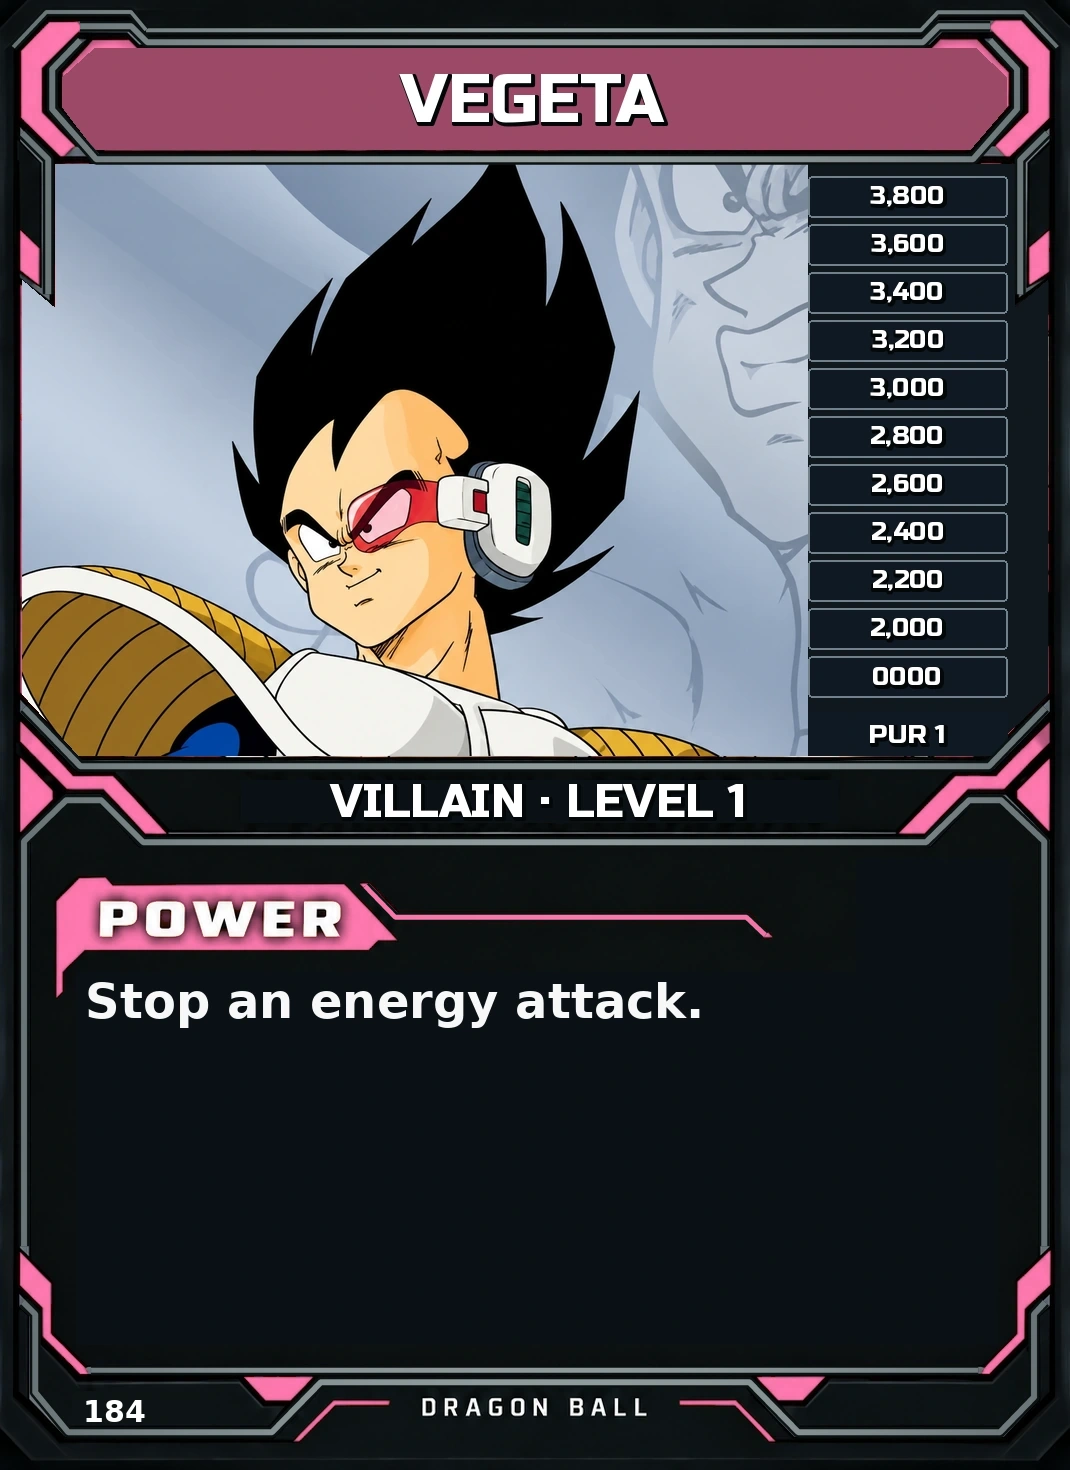
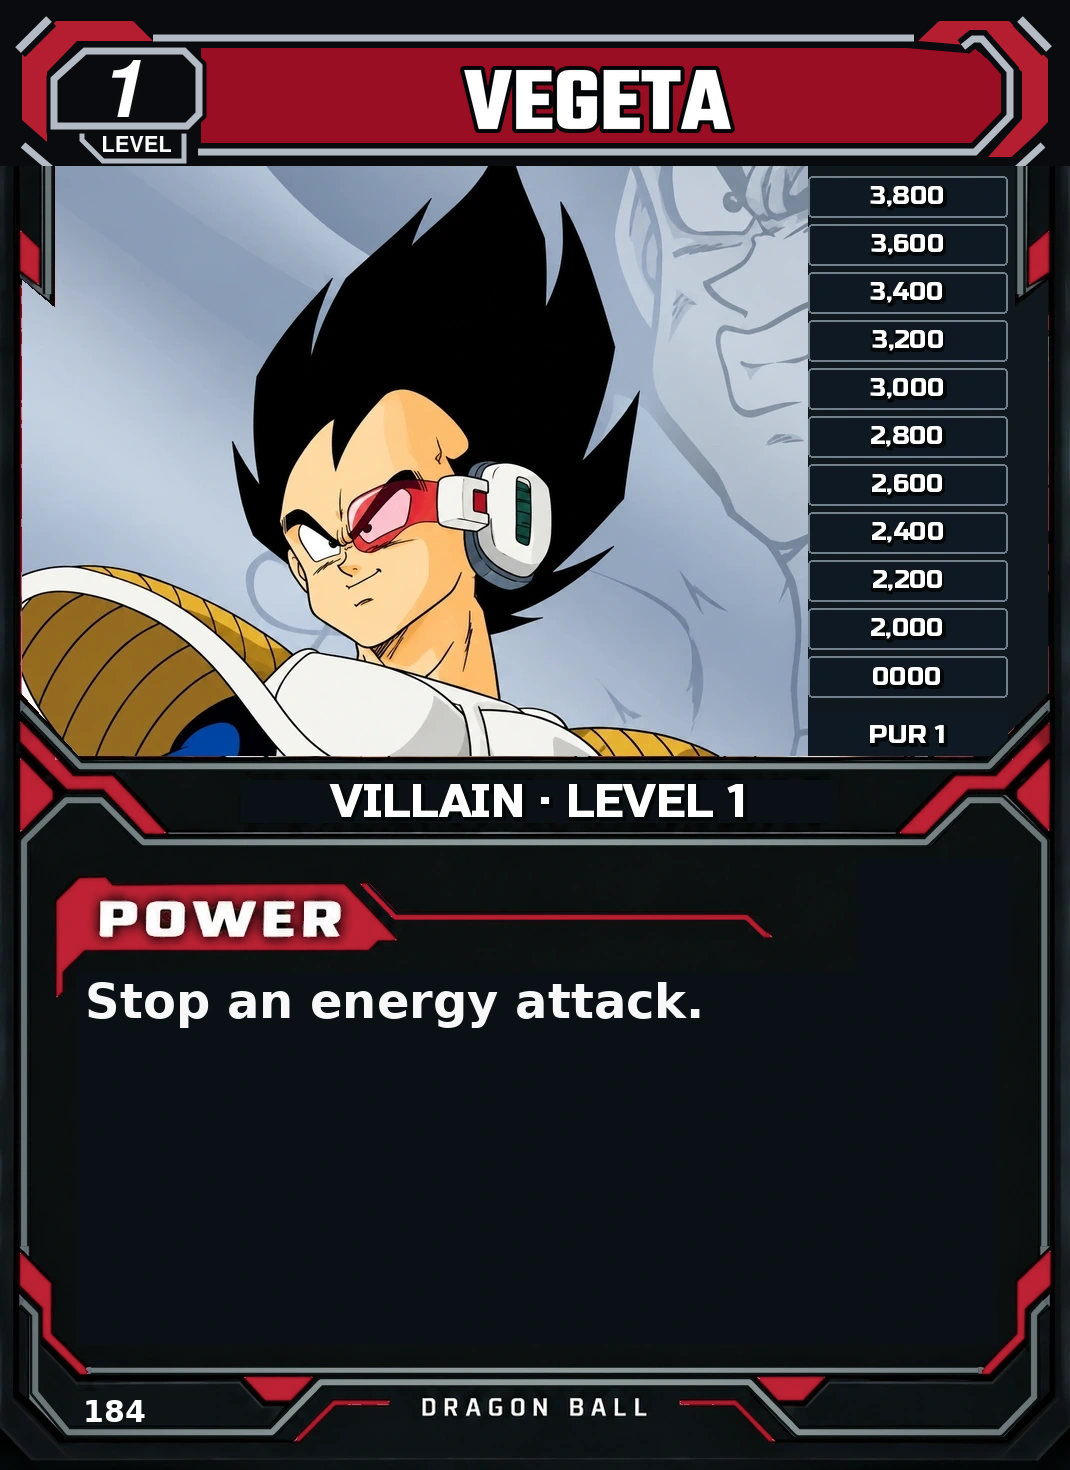
Apply approved angular LEVEL badges to personalities 31–40 of 49

diff --git a/public/cards/catalog.js b/public/cards/catalog.js
@@ -2304,8 +2304,10 @@ export const catalog = [
     "style": "Freestyle",
     "set": "Saiyan Saga",
     "status": "Ready",
-    "image": "/assets/cards/saiyan-178-nappa.webp?v=f2fd3159fd",
-    "source": "https://retrodbzccg.com/card-images/saiyan-saga-starter/"
+    "image": "/assets/cards/saiyan-178-nappa.webp?v=748bdd0847",
+    "source": "https://retrodbzccg.com/card-images/saiyan-saga-starter/",
+    "width": 1070,
+    "height": 1470
   },
   {
     "id": "saiyan-179-goku-lvl-1-ht",
@@ -2315,8 +2317,10 @@ export const catalog = [
     "style": "Freestyle",
     "set": "Saiyan Saga",
     "status": "Ready",
-    "image": "/assets/cards/saiyan-179-goku-lvl-1-ht.webp?v=119d3c6f66",
-    "source": "https://retrodbzccg.com/card-images/saiyan-saga-starter/"
+    "image": "/assets/cards/saiyan-179-goku-lvl-1-ht.webp?v=1230ca9358",
+    "source": "https://retrodbzccg.com/card-images/saiyan-saga-starter/",
+    "width": 1070,
+    "height": 1470
   },
   {
     "id": "saiyan-180-piccolo-lvl-1-ht",
@@ -2326,8 +2330,10 @@ export const catalog = [
     "style": "Freestyle",
     "set": "Saiyan Saga",
     "status": "Ready",
-    "image": "/assets/cards/saiyan-180-piccolo-lvl-1-ht.webp?v=3659517db7",
-    "source": "https://retrodbzccg.com/card-images/saiyan-saga-starter/"
+    "image": "/assets/cards/saiyan-180-piccolo-lvl-1-ht.webp?v=16f1265864",
+    "source": "https://retrodbzccg.com/card-images/saiyan-saga-starter/",
+    "width": 1070,
+    "height": 1470
   },
   {
     "id": "saiyan-181-gohan-lvl-1-ht",
@@ -2337,8 +2343,10 @@ export const catalog = [
     "style": "Freestyle",
     "set": "Saiyan Saga",
     "status": "Ready",
-    "image": "/assets/cards/saiyan-181-gohan-lvl-1-ht.webp?v=fff28dc7d8",
-    "source": "https://retrodbzccg.com/card-images/saiyan-saga-starter/"
+    "image": "/assets/cards/saiyan-181-gohan-lvl-1-ht.webp?v=e0be1bf885",
+    "source": "https://retrodbzccg.com/card-images/saiyan-saga-starter/",
+    "width": 1070,
+    "height": 1470
   },
   {
     "id": "saiyan-182-krillin-lvl-1-ht",
@@ -2348,8 +2356,10 @@ export const catalog = [
     "style": "Freestyle",
     "set": "Saiyan Saga",
     "status": "Ready",
-    "image": "/assets/cards/saiyan-182-krillin-lvl-1-ht.webp?v=3f07fa8b39",
-    "source": "https://retrodbzccg.com/card-images/saiyan-saga-starter/"
+    "image": "/assets/cards/saiyan-182-krillin-lvl-1-ht.webp?v=8902d47a1a",
+    "source": "https://retrodbzccg.com/card-images/saiyan-saga-starter/",
+    "width": 1070,
+    "height": 1470
   },
   {
     "id": "saiyan-183-raditz-lvl-1-ht",
@@ -2359,8 +2369,10 @@ export const catalog = [
     "style": "Freestyle",
     "set": "Saiyan Saga",
     "status": "Ready",
-    "image": "/assets/cards/saiyan-183-raditz-lvl-1-ht.webp?v=335ae41561",
-    "source": "https://retrodbzccg.com/card-images/saiyan-saga-starter/"
+    "image": "/assets/cards/saiyan-183-raditz-lvl-1-ht.webp?v=979f819687",
+    "source": "https://retrodbzccg.com/card-images/saiyan-saga-starter/",
+    "width": 1070,
+    "height": 1470
   },
   {
     "id": "saiyan-184-vegeta-lvl-1-ht",
@@ -2370,8 +2382,10 @@ export const catalog = [
     "style": "Freestyle",
     "set": "Saiyan Saga",
     "status": "Ready",
-    "image": "/assets/cards/saiyan-184-vegeta-lvl-1-ht.webp?v=725e8b8176",
-    "source": "https://retrodbzccg.com/card-images/saiyan-saga-starter/"
+    "image": "/assets/cards/saiyan-184-vegeta-lvl-1-ht.webp?v=784e7be29e",
+    "source": "https://retrodbzccg.com/card-images/saiyan-saga-starter/",
+    "width": 1070,
+    "height": 1470
   },
   {
     "id": "saiyan-185-nappa-lvl-1-ht",
@@ -2381,8 +2395,10 @@ export const catalog = [
     "style": "Freestyle",
     "set": "Saiyan Saga",
     "status": "Ready",
-    "image": "/assets/cards/saiyan-185-nappa-lvl-1-ht.webp?v=1dcf377c9d",
-    "source": "https://retrodbzccg.com/card-images/saiyan-saga-starter/"
+    "image": "/assets/cards/saiyan-185-nappa-lvl-1-ht.webp?v=c5b05e9cc3",
+    "source": "https://retrodbzccg.com/card-images/saiyan-saga-starter/",
+    "width": 1070,
+    "height": 1470
   },
   {
     "id": "saiyan-186-earth-dragon-ball-6",
@@ -3019,8 +3035,10 @@ export const catalog = [
     "style": "Freestyle",
     "set": "Saiyan Saga",
     "status": "Ready",
-    "image": "/assets/cards/saiyan-243-saibaimen.webp?v=71b06afc1f",
-    "source": "https://retrodbzccg.com/card-images/saiyan-saga-rares/"
+    "image": "/assets/cards/saiyan-243-saibaimen.webp?v=6999d63ab0",
+    "source": "https://retrodbzccg.com/card-images/saiyan-saga-rares/",
+    "width": 1070,
+    "height": 1470
   },
   {
     "id": "saiyan-244-saibaimen",
@@ -3030,8 +3048,10 @@ export const catalog = [
     "style": "Freestyle",
     "set": "Saiyan Saga",
     "status": "Ready",
-    "image": "/assets/cards/saiyan-244-saibaimen.webp?v=e547d9e31a",
-    "source": "https://retrodbzccg.com/card-images/saiyan-saga-rares/"
+    "image": "/assets/cards/saiyan-244-saibaimen.webp?v=53f2bcaed8",
+    "source": "https://retrodbzccg.com/card-images/saiyan-saga-rares/",
+    "width": 1070,
+    "height": 1470
   },
   {
     "id": "saiyan-245-saibaimen",
